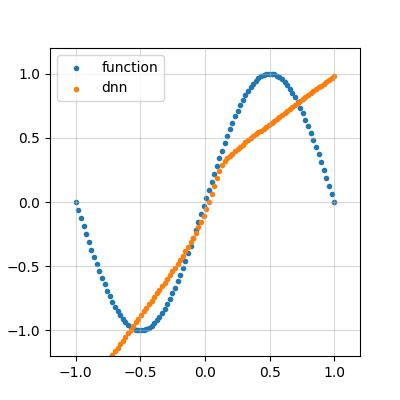
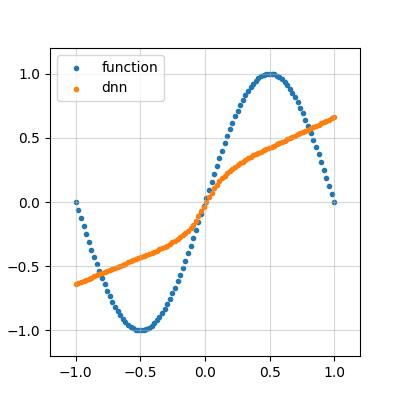
add code

Changed region(s): [[0.18, 0.18, 0.84, 0.9]]

diff --git a/00_tf2/main.py b/00_tf2/main.py
@@ -70,9 +70,9 @@ def main():
     x_train = tf.random.uniform(
         (10, 1), xmin, xmax, dtype=d_type
     )
-    x_train = np.linspace(xmin, xmax, int(nx / 5))
+    x_train = np.linspace(xmin, xmax, 10)
     x_train = x_train.reshape(-1, 1)
-    x_train = tf.convert_to_tensor(x_train)
+    x_train = tf.convert_to_tensor(x_train, dtype=d_type)
     y_train = tf.sin(np.pi * x_train)
     print("x_train.shape", x_train.shape)
     print("y_train.shape", y_train.shape)
@@ -88,7 +88,7 @@ def main():
 
     # train
     with tf.device("/device:GPU:0"):
-        model.train(n_epc = int(100), n_btc = -1, c_tol = 1e-5)
+        model.train(n_epc = int(1e4), n_btc = -1, c_tol = 1e-5)
 
     # infer
     x_infer = tf.cast(x, dtype=d_type)
